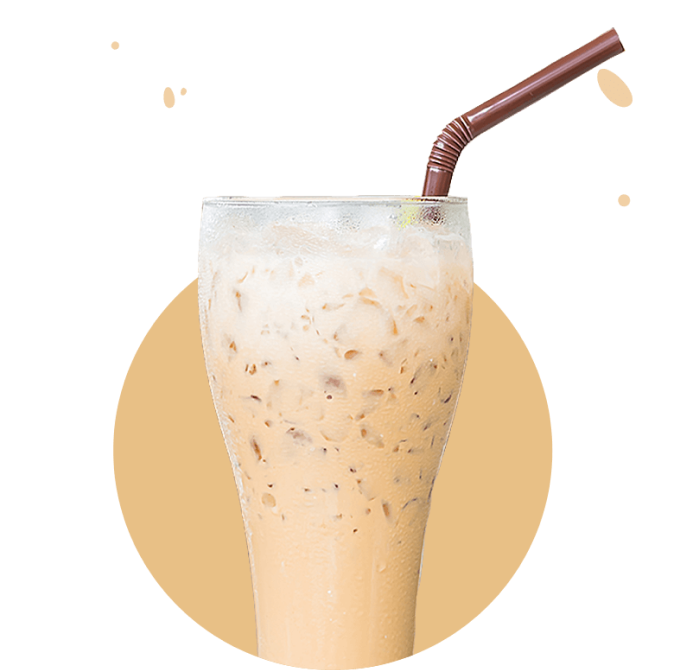
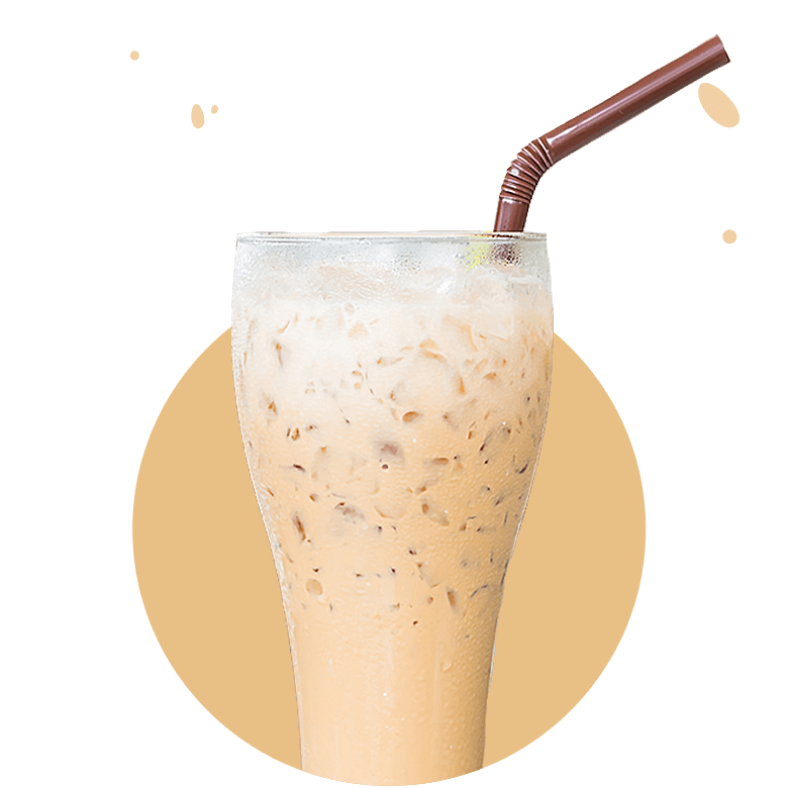
Добавляет картинки и анимацию стрелочки

diff --git a/src/sass/layout/_products.scss b/src/sass/layout/_products.scss
@@ -104,9 +104,11 @@
 
   @media screen and (min-width: 1280px) {
     margin-left: 32px;
-    margin-top: 165px;
+    margin-top: 261px;
     padding-left: 75px;
     padding-right: 75px;
+    padding-top: 165px;
+    padding-bottom: 60px;
     flex-basis: calc(100% / 3 - 32px);
   }
 }
@@ -142,12 +144,30 @@
 .products-list__item--icecream::before {
   background-image: url('../images/products/product1.png');
 
+  @media (min-device-pixel-ratio: 2),
+    (min-resolution: 192dpi),
+    (min-resolution: 2dppx) {
+    background-image: url('../images/products/product1@2x.png');
+  }
+
   @media screen and (min-width: 768px) {
     background-image: url('../images/products/product1-tab.png');
+
+    @media (min-device-pixel-ratio: 2),
+      (min-resolution: 192dpi),
+      (min-resolution: 2dppx) {
+      background-image: url('../images/products/product1@2x-tab.png');
+    }
   }
 
   @media screen and (min-width: 1280px) {
     background-image: url('../images/products/product1-full.png');
+
+    @media (min-device-pixel-ratio: 2),
+      (min-resolution: 192dpi),
+      (min-resolution: 2dppx) {
+      background-image: url('../images/products/product1@2x-full.png');
+    }
   }
 }
 
@@ -158,24 +178,60 @@
 .products-list__item--icecoffee::before {
   background-image: url('../images/products/product2.png');
 
+  @media (min-device-pixel-ratio: 2),
+    (min-resolution: 192dpi),
+    (min-resolution: 2dppx) {
+    background-image: url('../images/products/product2@2x.png');
+  }
+
   @media screen and (min-width: 768px) {
     background-image: url('../images/products/product2-tab.png');
+
+    @media (min-device-pixel-ratio: 2),
+      (min-resolution: 192dpi),
+      (min-resolution: 2dppx) {
+      background-image: url('../images/products/product2@2x-tab.png');
+    }
   }
 
   @media screen and (min-width: 1280px) {
     background-image: url('../images/products/product2-full.png');
+
+    @media (min-device-pixel-ratio: 2),
+      (min-resolution: 192dpi),
+      (min-resolution: 2dppx) {
+      background-image: url('../images/products/product2@2x-full.png');
+    }
   }
 }
 
 .products-list__item--milkshakes::before {
   background-image: url('../images/products/product3.png');
 
+  @media (min-device-pixel-ratio: 2),
+    (min-resolution: 192dpi),
+    (min-resolution: 2dppx) {
+    background-image: url('../images/products/product3@2x.png');
+  }
+
   @media screen and (min-width: 768px) {
     background-image: url('../images/products/product3-tab.png');
+
+    @media (min-device-pixel-ratio: 2),
+      (min-resolution: 192dpi),
+      (min-resolution: 2dppx) {
+      background-image: url('../images/products/product3@2x-tab.png');
+    }
   }
 
   @media screen and (min-width: 1280px) {
     background-image: url('../images/products/product3-full.png');
+
+    @media (min-device-pixel-ratio: 2),
+      (min-resolution: 192dpi),
+      (min-resolution: 2dppx) {
+      background-image: url('../images/products/product3@2x-full.png');
+    }
   }
 }
 
@@ -210,6 +266,12 @@
   background-size: contain;
   background-repeat: no-repeat;
   background-position: center;
+
+  @media (min-device-pixel-ratio: 2),
+    (min-resolution: 192dpi),
+    (min-resolution: 2dppx) {
+    background-image: url('../images/products/product@2x-after.png');
+  }
 }
 
 .products-list__text {
@@ -246,4 +308,10 @@
 
 .products-btn__icon {
   fill: $color-text-red;
+  transition: transform 250ms cubic-bezier(0.4, 0, 0.2, 1);
+
+  &:hover,
+  &:focus {
+    transform: rotate(-90deg);
+  }
 }
